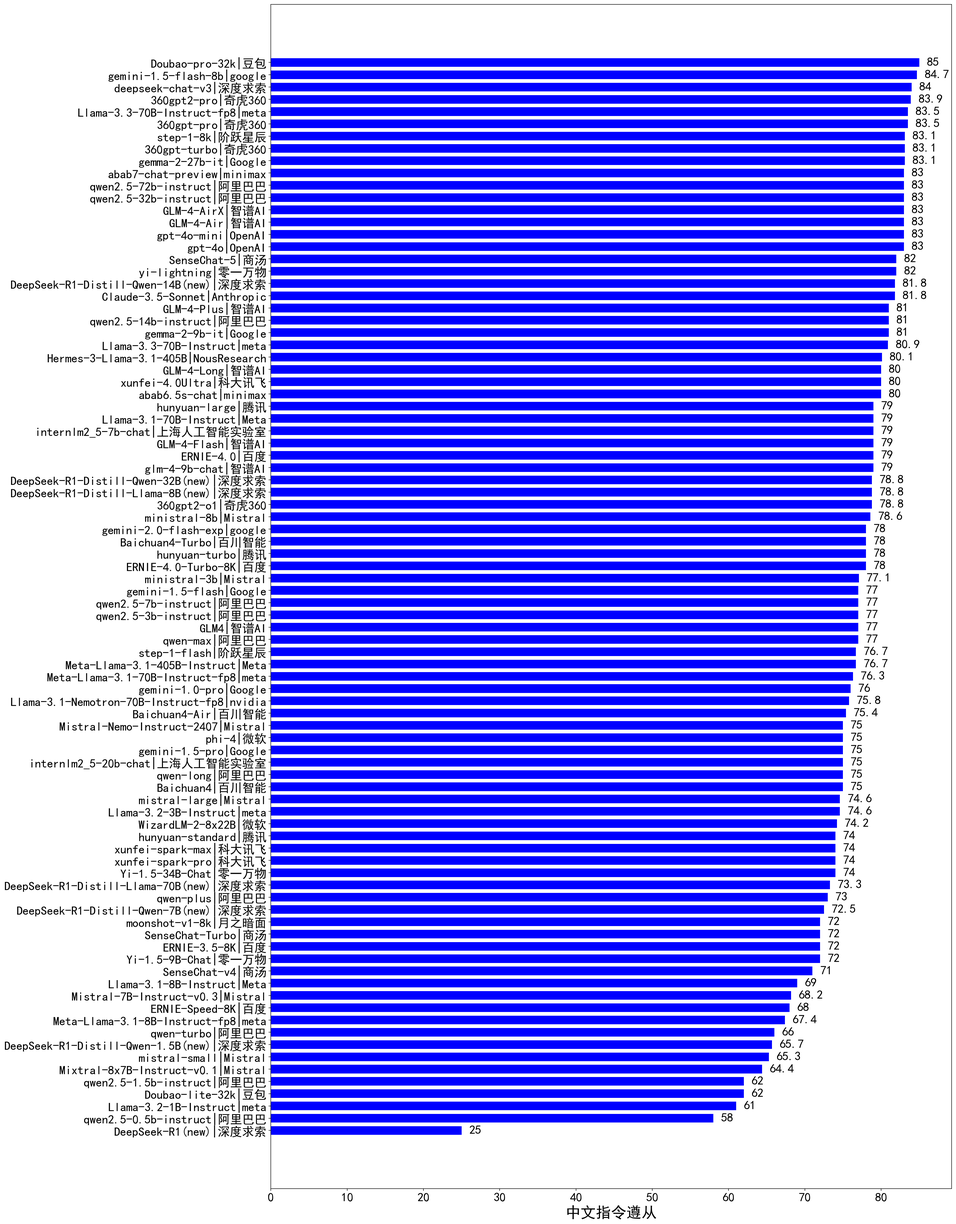
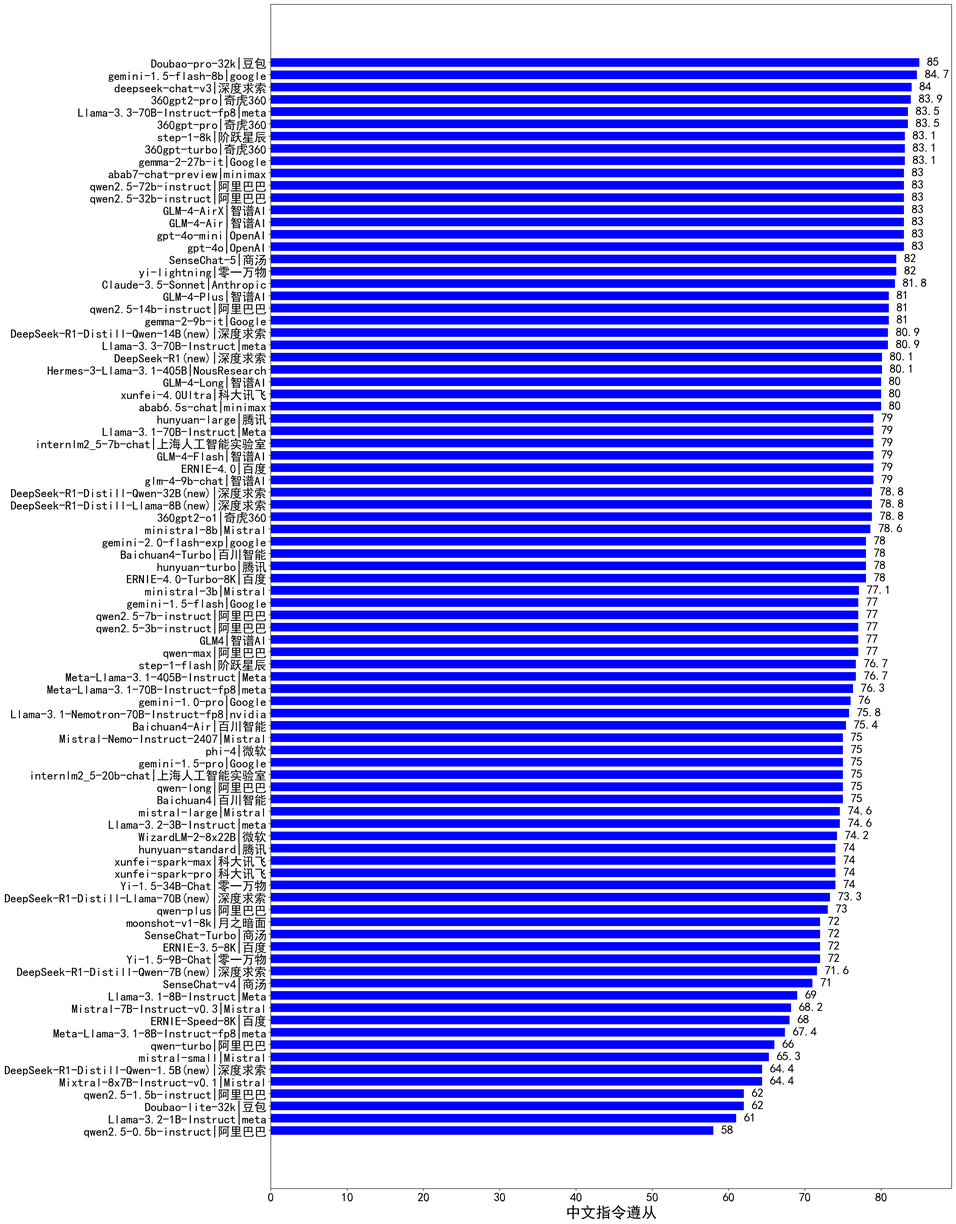
.

diff --git a/leaderboard/alldata.md b/leaderboard/alldata.md
@@ -1,8 +1,8 @@
 
 | 类别 | 大模型                        | 分类能力 | 信息抽取 | 阅读理解 | 数据分析 | 指令遵从 | 算术运算 |初中数学|BBH|总分   | 排名 |
 |----|----------------------------|------|--------|--------|------|------|----|------|----|---|----|
-|商用|hunyuan-large☛[去体验](https://easyllm.site/static/modelcompare.html?type=proprietary)|91.0|88.9|90.8|96.7|                        79.0|93.0|93.9|88.9|92.7|                        81.6|86.3|79.3|86.1|                        83.8|77.0|87.3|1|
-|开源|DeepSeek-R1(new)☛[去体验](https://easyllm.site/static/modelcompare.html?type=open-source)|94.7|97.0|92.6|100.0|                        25.0|89.8|94.2|93.3|94.6|                        91.5|90.6|71.5|93.5|                        83.9|83.1|86.4|2|
+|开源|DeepSeek-R1(new)☛[去体验](https://easyllm.site/static/modelcompare.html?type=open-source)|94.7|97.0|92.6|100.0|                        80.1|89.8|94.2|93.3|94.6|                        91.5|90.6|71.5|93.5|                        83.9|83.1|90.0|1|
+|商用|hunyuan-large☛[去体验](https://easyllm.site/static/modelcompare.html?type=proprietary)|91.0|88.9|90.8|96.7|                        79.0|93.0|93.9|88.9|92.7|                        81.6|86.3|79.3|86.1|                        83.8|77.0|87.3|2|
 |商用|hunyuan-turbo☛[去体验](https://easyllm.site/static/modelcompare.html?type=proprietary)|93.0|85.2|89.4|97.3|                        78.0|99.5|93.7|83.2|92.0|                        82.4|82.6|69.1|90.6|                        74.7|77.4|85.9|3|
 |商用|ERNIE-4.0☛[去体验](https://easyllm.site/static/modelcompare.html?type=proprietary)|88.0|89.0|93.8|94.0|                        79.0|100.0|88.6|82.8|92.0|                        84.0|76.0|61.0|83.7|                        81.8|78.0|84.8|4|
 |商用|ERNIE-4.0-Turbo-8K☛[去体验](https://easyllm.site/static/modelcompare.html?type=proprietary)|90.0|94.8|93.2|98.7|                        78.0|97.7|82.9|82.8|92.7|                        86.4|71.7|58.6|81.0|                        81.8|71.8|84.1|5|
@@ -23,8 +23,8 @@
 |商用|SenseChat-5☛[去体验](https://easyllm.site/static/modelcompare.html?type=proprietary)|93.0|90.4|87.2|97.3|                        82.0|85.0|82.9|86.2|90.0|                        86.0|70.0|45.0|74.8|                        70.7|80.0|81.4|20|
 |商用|360gpt2-o1☛[去体验](https://easyllm.site/static/modelcompare.html?type=proprietary)|98.0|94.1|77.4|100.0|                        78.8|90.4|91.5|85.5|89.2|                        83.8|70.5|48.0|79.9|                        71.7|58.7|81.2|21|
 |开源|qwen2.5-32b-instruct☛[去体验](https://easyllm.site/static/modelcompare.html?type=open-source)|91.0|94.1|85.8|91.3|                        83.0|94.0|90.3|66.6|94.1|                        88.2|70.0|51.9|81.2|                        72.7|62.3|81.1|22|
-|开源|DeepSeek-R1-Distill-Qwen-14B(new)☛[去体验](https://easyllm.site/static/modelcompare.html?type=open-source)|88.4|90.4|78.9|98.0|                        81.8|94.3|88.5|83.5|92.7|                        86.6|68.0|42.3|78.4|                        80.8|62.3|81.0|23|
-|商用|xunfei-spark-max☛[去体验](https://easyllm.site/static/modelcompare.html?type=proprietary)|87.0|92.0|82.6|87.3|                        74.0|93.5|93.7|72.5|91.6|                        87.0|70.4|59.6|84.7|                        76.8|61.5|80.9|24|
+|商用|xunfei-spark-max☛[去体验](https://easyllm.site/static/modelcompare.html?type=proprietary)|87.0|92.0|82.6|87.3|                        74.0|93.5|93.7|72.5|91.6|                        87.0|70.4|59.6|84.7|                        76.8|61.5|80.9|23|
+|开源|DeepSeek-R1-Distill-Qwen-14B(new)☛[去体验](https://easyllm.site/static/modelcompare.html?type=open-source)|88.4|90.4|78.9|98.0|                        80.9|94.3|88.5|83.5|92.7|                        86.6|68.0|42.3|78.4|                        80.8|62.3|80.9|24|
 |开源|DeepSeek-R1-Distill-Llama-70B(new)☛[去体验](https://easyllm.site/static/modelcompare.html?type=open-source)|88.4|94.8|78.9|97.3|                        73.3|92.6|87.6|86.4|95.1|                        86.0|77.8|35.2|74.1|                        78.6|67.5|80.9|25|
 |商用|yi-lightning☛[去体验](https://easyllm.site/static/modelcompare.html?type=proprietary)|94.0|90.4|79.8|100.0|                        82.0|96.0|83.5|82.4|90.6|                        84.7|69.0|41.1|77.2|                        80.8|61.1|80.8|26|
 |商用|step-1-8k☛[去体验](https://easyllm.site/static/modelcompare.html?type=proprietary)|96.0|93.3|81.1|100.0|                        83.1|94.2|84.5|88.1|90.9|                        83.0|69.1|45.4|70.3|                        70.7|61.5|80.7|27|
@@ -74,7 +74,7 @@
 |商用|ministral-8b☛[去体验](https://easyllm.site/static/modelcompare.html?type=proprietary)|88.0|90.4|60.2|99.3|                        78.6|85.5|69.0|71.4|87.5|                        59.4|45.3|21.1|44.0|                        68.3|53.8|68.1|71|
 |开源|qwen2.5-3b-instruct☛[去体验](https://easyllm.site/static/modelcompare.html?type=open-source)|81.0|75.6|70.6|83.3|                        77.0|85.7|75.5|43.5|84.3|                        80.3|51.3|28.9|56.5|                        68.7|57.9|68.0|72|
 |商用|SenseChat-v4☛[去体验](https://easyllm.site/static/modelcompare.html?type=proprietary)|89.0|78.5|75.1|86.7|                        71.0|72.2|39.0|70.7|84.7|                        76.8|53.3|25.2|55.5|                        70.7|66.7|67.7|73|
-|开源|DeepSeek-R1-Distill-Qwen-7B(new)☛[去体验](https://easyllm.site/static/modelcompare.html?type=open-source)|69.5|87.0|57.6|95.3|                        72.5|90.2|86.9|63.4|73.2|                        73.8|48.8|19.5|54.0|                        61.6|49.2|66.8|74|
+|开源|DeepSeek-R1-Distill-Qwen-7B(new)☛[去体验](https://easyllm.site/static/modelcompare.html?type=open-source)|69.5|87.0|57.6|95.3|                        71.6|90.2|86.9|63.4|73.2|                        73.8|48.8|19.5|54.0|                        61.6|49.2|66.8|74|
 |开源|Yi-1.5-9B-Chat☛[去体验](https://easyllm.site/static/modelcompare.html?type=open-source)|82.0|83.0|73.9|80.0|                        72.0|73.8|54.7|70.8|85.4|                        75.8|45.3|31.5|56.9|                        56.6|57.1|66.6|75|
 |开源|Mistral-Nemo-Instruct-2407☛[去体验](https://easyllm.site/static/modelcompare.html?type=open-source)|89.0|91.9|58.0|93.3|                        75.0|79.3|52.4|69.9|81.9|                        75.2|42.4|20.9|48.1|                        58.6|52.4|65.9|76|
 |商用|gemini-1.0-pro☛[去体验](https://easyllm.site/static/modelcompare.html?type=proprietary)|84.0|89.6|74.1|99.3|                        76.0|50.8|40.6|75.0|67.6|                        76.3|49.2|24.2|54.0|                        65.7|60.3|65.8|77|
@@ -86,7 +86,7 @@
 |开源|Llama-3.2-3B-Instruct☛[去体验](https://easyllm.site/static/modelcompare.html?type=open-source)|74.0|83.0|58.1|88.7|                        74.6|89.7|46.2|58.1|63.4|                        69.6|37.8|18.4|35.3|                        62.6|42.9|60.2|83|
 |开源|qwen2.5-1.5b-instruct☛[去体验](https://easyllm.site/static/modelcompare.html?type=open-source)|70.0|71.9|65.6|63.3|                        62.0|83.3|56.1|34.0|36.2|                        75.1|40.5|28.1|52.5|                        57.6|42.5|55.9|84|
 |开源|Mistral-7B-Instruct-v0.3☛[去体验](https://easyllm.site/static/modelcompare.html?type=open-source)|82.0|80.7|57.6|83.3|                        68.2|33.5|31.7|56.4|76.3|                        73.0|40.9|17.1|34.0|                        54.5|44.8|55.6|85|
-|开源|DeepSeek-R1-Distill-Qwen-1.5B(new)☛[去体验](https://easyllm.site/static/modelcompare.html?type=open-source)|73.7|80.9|45.7|89.3|                        65.7|84.3|74.6|48.6|48.8|                        64.4|26.4|12.9|34.6|                        44.4|36.9|55.4|86|
+|开源|DeepSeek-R1-Distill-Qwen-1.5B(new)☛[去体验](https://easyllm.site/static/modelcompare.html?type=open-source)|73.7|80.9|45.7|89.3|                        64.4|84.3|74.6|48.6|48.8|                        64.4|26.4|12.9|34.6|                        44.4|36.9|55.3|86|
 |开源|Llama-3.2-1B-Instruct☛[去体验](https://easyllm.site/static/modelcompare.html?type=open-source)|56.0|71.9|52.3|54.0|                        61.0|67.3|23.3|22.2|56.1|                        53.0|32.7|14.4|33.7|                        52.5|38.1|45.9|87|
 |开源|qwen2.5-0.5b-instruct☛[去体验](https://easyllm.site/static/modelcompare.html?type=open-source)|52.0|53.3|50.4|46.0|                        58.0|51.8|36.6|15.7|48.1|                        50.4|30.7|21.7|37.4|                        42.4|32.5|41.8|88|
 

diff --git a/leaderboard/commerce4.md b/leaderboard/commerce4.md
@@ -3,7 +3,7 @@
 |大模型|输出价格|分类能力|信息抽取|阅读理解|数据分析|指令遵从|算术运算|初中数学|符号推理|代词理解|诗词匹配|公务员考试|律师资格考试|高考|常识推理|文本蕴含|总分|排名|
 |-----|-------|------|------|-------|------|-------|-------|-------|------|------|-------|--------|----------|---|-------|-------|---|---|
 |gemini-2.0-flash-exp☛[去体验](https://easyllm.site/static/modelcompare.html?type=proprietary)|0元|97.0|96.3|76.7|                    100.0|78.0|96.8|95.5|90.1|                    91.0|86.0|69.3|37.7|                    71.5|74.7|63.9|81.6|1|
-|DeepSeek-R1-Distill-Qwen-14B(new)☛[去体验](https://easyllm.site/static/modelcompare.html?type=open-source)|0.7元|88.4|90.4|78.9|                    98.0|81.8|94.3|88.5|83.5|                    92.7|86.6|68.0|42.3|                    78.4|80.8|62.3|81.0|2|
+|DeepSeek-R1-Distill-Qwen-14B(new)☛[去体验](https://easyllm.site/static/modelcompare.html?type=open-source)|0.7元|88.4|90.4|78.9|                    98.0|80.9|94.3|88.5|83.5|                    92.7|86.6|68.0|42.3|                    78.4|80.8|62.3|80.9|2|
 |yi-lightning☛[去体验](https://easyllm.site/static/modelcompare.html?type=proprietary)|0.99元|94.0|90.4|79.8|                    100.0|82.0|96.0|83.5|82.4|                    90.6|84.7|69.0|41.1|                    77.2|80.8|61.1|80.8|3|
 |internlm2_5-20b-chat☛[去体验](https://easyllm.site/static/modelcompare.html?type=open-source)|1元|86.0|90.4|79.7|                    97.3|75.0|89.7|86.8|78.7|                    88.2|82.2|66.4|42.7|                    74.1|63.6|64.3|77.7|4|
 |phi-4☛[去体验](https://easyllm.site/static/modelcompare.html?type=open-source)|1元|96.0|93.3|70.7|                    97.3|75.0|97.2|86.1|86.1|                    91.6|80.6|66.1|23.6|                    58.8|73.7|64.7|77.4|5|
@@ -18,7 +18,7 @@
 |ERNIE-Speed-8K☛[去体验](https://easyllm.site/static/modelcompare.html?type=proprietary)|0元|88.0|88.1|77.2|                    89.3|68.0|68.7|65.7|54.1|                    86.4|80.5|54.5|30.8|                    62.2|67.7|51.2|68.8|14|
 |DeepSeek-R1-Distill-Llama-8B(new)☛[去体验](https://easyllm.site/static/modelcompare.html?type=open-source)|0.42元|88.4|87.0|55.3|                    98.7|78.8|86.7|72.0|74.2|                    76.7|77.8|50.3|19.8|                    50.1|51.3|55.6|68.2|15|
 |ministral-8b☛[去体验](https://easyllm.site/static/modelcompare.html?type=proprietary)|0.72元|88.0|90.4|60.2|                    99.3|78.6|85.5|69.0|71.4|                    87.5|59.4|45.3|21.1|                    44.0|68.3|53.8|68.1|16|
-|DeepSeek-R1-Distill-Qwen-7B(new)☛[去体验](https://easyllm.site/static/modelcompare.html?type=open-source)|0.35元|69.5|87.0|57.6|                    95.3|72.5|90.2|86.9|63.4|                    73.2|73.8|48.8|19.5|                    54.0|61.6|49.2|66.8|17|
+|DeepSeek-R1-Distill-Qwen-7B(new)☛[去体验](https://easyllm.site/static/modelcompare.html?type=open-source)|0.35元|69.5|87.0|57.6|                    95.3|71.6|90.2|86.9|63.4|                    73.2|73.8|48.8|19.5|                    54.0|61.6|49.2|66.8|17|
 |Yi-1.5-9B-Chat☛[去体验](https://easyllm.site/static/modelcompare.html?type=open-source)|0.4元|82.0|83.0|73.9|                    80.0|72.0|73.8|54.7|70.8|                    85.4|75.8|45.3|31.5|                    56.9|56.6|57.1|66.6|18|
 |Mistral-Nemo-Instruct-2407☛[去体验](https://easyllm.site/static/modelcompare.html?type=open-source)|0.58元|89.0|91.9|58.0|                    93.3|75.0|79.3|52.4|69.9|                    81.9|75.2|42.4|20.9|                    48.1|58.6|52.4|65.9|19|
 |Doubao-lite-32k☛[去体验](https://easyllm.site/static/modelcompare.html?type=proprietary)|0.6元|77.0|86.7|71.9|                    64.7|62.0|87.2|71.8|52.3|                    79.4|64.6|49.8|32.1|                    68.4|63.6|50.4|65.5|20|
@@ -27,6 +27,6 @@
 |ministral-3b☛[去体验](https://easyllm.site/static/modelcompare.html?type=proprietary)|0.29元|83.0|87.4|54.5|                    84.0|77.1|66.3|64.4|64.5|                    67.5|64.1|38.1|15.8|                    39.0|67.9|33.8|60.5|23|
 |Llama-3.2-3B-Instruct☛[去体验](https://easyllm.site/static/modelcompare.html?type=open-source)|0.18元|74.0|83.0|58.1|                    88.7|74.6|89.7|46.2|58.1|                    63.4|69.6|37.8|18.4|                    35.3|62.6|42.9|60.2|24|
 |Mistral-7B-Instruct-v0.3☛[去体验](https://easyllm.site/static/modelcompare.html?type=open-source)|0.4元|82.0|80.7|57.6|                    83.3|68.2|33.5|31.7|56.4|                    76.3|73.0|40.9|17.1|                    34.0|54.5|44.8|55.6|25|
-|DeepSeek-R1-Distill-Qwen-1.5B(new)☛[去体验](https://easyllm.site/static/modelcompare.html?type=open-source)|0.14元|73.7|80.9|45.7|                    89.3|65.7|84.3|74.6|48.6|                    48.8|64.4|26.4|12.9|                    34.6|44.4|36.9|55.4|26|
+|DeepSeek-R1-Distill-Qwen-1.5B(new)☛[去体验](https://easyllm.site/static/modelcompare.html?type=open-source)|0.14元|73.7|80.9|45.7|                    89.3|64.4|84.3|74.6|48.6|                    48.8|64.4|26.4|12.9|                    34.6|44.4|36.9|55.3|26|
 |Llama-3.2-1B-Instruct☛[去体验](https://easyllm.site/static/modelcompare.html?type=open-source)|0.15元|56.0|71.9|52.3|                    54.0|61.0|67.3|23.3|22.2|                    56.1|53.0|32.7|14.4|                    33.7|52.5|38.1|45.9|27|
 

diff --git a/leaderboard/IFEval.md b/leaderboard/IFEval.md
@@ -19,76 +19,76 @@
 |商用|abab7-chat-preview|83.0|16|
 |商用|SenseChat-5|82.0|17|
 |商用|yi-lightning|82.0|18|
-|开源|DeepSeek-R1-Distill-Qwen-14B(new)|81.8|19|
-|商用|Claude-3.5-Sonnet|81.8|20|
-|开源|qwen2.5-14b-instruct|81.0|21|
+|商用|Claude-3.5-Sonnet|81.8|19|
+|开源|qwen2.5-14b-instruct|81.0|20|
+|开源|gemma-2-9b-it|81.0|21|
 |商用|GLM-4-Plus|81.0|22|
-|开源|gemma-2-9b-it|81.0|23|
-|开源|Llama-3.3-70B-Instruct|80.9|24|
+|开源|Llama-3.3-70B-Instruct|80.9|23|
+|开源|DeepSeek-R1-Distill-Qwen-14B(new)|80.9|24|
 |开源|Hermes-3-Llama-3.1-405B|80.1|25|
-|商用|xunfei-4.0Ultra|80.0|26|
+|开源|DeepSeek-R1(new)|80.1|26|
 |商用|abab6.5s-chat|80.0|27|
-|商用|GLM-4-Long|80.0|28|
-|商用|GLM-4-Flash|79.0|29|
-|开源|glm-4-9b-chat|79.0|30|
+|商用|xunfei-4.0Ultra|80.0|28|
+|商用|GLM-4-Long|80.0|29|
+|商用|GLM-4-Flash|79.0|30|
 |商用|ERNIE-4.0|79.0|31|
 |开源|internlm2_5-7b-chat|79.0|32|
-|商用|hunyuan-large|79.0|33|
-|开源|Llama-3.1-70B-Instruct|79.0|34|
-|开源|DeepSeek-R1-Distill-Llama-8B(new)|78.8|35|
-|商用|360gpt2-o1|78.8|36|
+|开源|Llama-3.1-70B-Instruct|79.0|33|
+|开源|glm-4-9b-chat|79.0|34|
+|商用|hunyuan-large|79.0|35|
+|开源|DeepSeek-R1-Distill-Llama-8B(new)|78.8|36|
 |开源|DeepSeek-R1-Distill-Qwen-32B(new)|78.8|37|
-|商用|ministral-8b|78.6|38|
-|商用|ERNIE-4.0-Turbo-8K|78.0|39|
-|商用|gemini-2.0-flash-exp|78.0|40|
+|商用|360gpt2-o1|78.8|38|
+|商用|ministral-8b|78.6|39|
+|商用|ERNIE-4.0-Turbo-8K|78.0|40|
 |商用|hunyuan-turbo|78.0|41|
-|商用|Baichuan4-Turbo|78.0|42|
-|商用|ministral-3b|77.1|43|
-|商用|GLM4|77.0|44|
+|商用|gemini-2.0-flash-exp|78.0|42|
+|商用|Baichuan4-Turbo|78.0|43|
+|商用|ministral-3b|77.1|44|
 |商用|gemini-1.5-flash|77.0|45|
 |开源|qwen2.5-7b-instruct|77.0|46|
-|商用|qwen-max|77.0|47|
-|开源|qwen2.5-3b-instruct|77.0|48|
-|开源|Meta-Llama-3.1-405B-Instruct|76.7|49|
+|开源|qwen2.5-3b-instruct|77.0|47|
+|商用|GLM4|77.0|48|
+|商用|qwen-max|77.0|49|
 |商用|step-1-flash|76.7|50|
-|开源|Meta-Llama-3.1-70B-Instruct-fp8|76.3|51|
-|商用|gemini-1.0-pro|76.0|52|
-|开源|Llama-3.1-Nemotron-70B-Instruct-fp8|75.8|53|
-|商用|Baichuan4-Air|75.4|54|
-|商用|gemini-1.5-pro|75.0|55|
+|开源|Meta-Llama-3.1-405B-Instruct|76.7|51|
+|开源|Meta-Llama-3.1-70B-Instruct-fp8|76.3|52|
+|商用|gemini-1.0-pro|76.0|53|
+|开源|Llama-3.1-Nemotron-70B-Instruct-fp8|75.8|54|
+|商用|Baichuan4-Air|75.4|55|
 |开源|internlm2_5-20b-chat|75.0|56|
 |商用|qwen-long|75.0|57|
 |商用|Baichuan4|75.0|58|
-|开源|phi-4|75.0|59|
+|商用|gemini-1.5-pro|75.0|59|
 |开源|Mistral-Nemo-Instruct-2407|75.0|60|
-|商用|mistral-large|74.6|61|
-|开源|Llama-3.2-3B-Instruct|74.6|62|
-|开源|WizardLM-2-8x22B|74.2|63|
-|开源|Yi-1.5-34B-Chat|74.0|64|
-|商用|xunfei-spark-pro|74.0|65|
+|开源|phi-4|75.0|61|
+|商用|mistral-large|74.6|62|
+|开源|Llama-3.2-3B-Instruct|74.6|63|
+|开源|WizardLM-2-8x22B|74.2|64|
+|商用|hunyuan-standard|74.0|65|
 |商用|xunfei-spark-max|74.0|66|
-|商用|hunyuan-standard|74.0|67|
-|开源|DeepSeek-R1-Distill-Llama-70B(new)|73.3|68|
-|商用|qwen-plus|73.0|69|
-|开源|DeepSeek-R1-Distill-Qwen-7B(new)|72.5|70|
+|商用|xunfei-spark-pro|74.0|67|
+|开源|Yi-1.5-34B-Chat|74.0|68|
+|开源|DeepSeek-R1-Distill-Llama-70B(new)|73.3|69|
+|商用|qwen-plus|73.0|70|
 |商用|ERNIE-3.5-8K|72.0|71|
 |商用|moonshot-v1-8k|72.0|72|
 |商用|SenseChat-Turbo|72.0|73|
 |开源|Yi-1.5-9B-Chat|72.0|74|
-|商用|SenseChat-v4|71.0|75|
-|开源|Llama-3.1-8B-Instruct|69.0|76|
-|开源|Mistral-7B-Instruct-v0.3|68.2|77|
-|商用|ERNIE-Speed-8K|68.0|78|
-|开源|Meta-Llama-3.1-8B-Instruct-fp8|67.4|79|
-|商用|qwen-turbo|66.0|80|
-|开源|DeepSeek-R1-Distill-Qwen-1.5B(new)|65.7|81|
+|开源|DeepSeek-R1-Distill-Qwen-7B(new)|71.6|75|
+|商用|SenseChat-v4|71.0|76|
+|开源|Llama-3.1-8B-Instruct|69.0|77|
+|开源|Mistral-7B-Instruct-v0.3|68.2|78|
+|商用|ERNIE-Speed-8K|68.0|79|
+|开源|Meta-Llama-3.1-8B-Instruct-fp8|67.4|80|
+|商用|qwen-turbo|66.0|81|
 |商用|mistral-small|65.3|82|
-|开源|Mixtral-8x7B-Instruct-v0.1|64.4|83|
-|商用|Doubao-lite-32k|62.0|84|
-|开源|qwen2.5-1.5b-instruct|62.0|85|
-|开源|Llama-3.2-1B-Instruct|61.0|86|
-|开源|qwen2.5-0.5b-instruct|58.0|87|
-|开源|DeepSeek-R1(new)|25.0|88|
+|开源|DeepSeek-R1-Distill-Qwen-1.5B(new)|64.4|83|
+|开源|Mixtral-8x7B-Instruct-v0.1|64.4|84|
+|商用|Doubao-lite-32k|62.0|85|
+|开源|qwen2.5-1.5b-instruct|62.0|86|
+|开源|Llama-3.2-1B-Instruct|61.0|87|
+|开源|qwen2.5-0.5b-instruct|58.0|88|
 |商用|o1-mini|/|89|
 |开源|qwen2.5-math-72b-instruct|/|90|
 |商用|o1-preview|/|91|

diff --git a/leaderboard/opensource2.md b/leaderboard/opensource2.md
@@ -2,7 +2,7 @@
 ##### （2）5B~20B开源大模型排行榜
 |类别|大模型|分类能力|信息抽取|阅读理解|数据分析|指令遵从|算术运算|初中数学|符号推理|代词理解|诗词匹配|公务员考试|律师资格考试|高考|常识推理|文本蕴含|总分|排名|
 |---|-----|------|-------|-------|------|-------|-------|------|-------|------|-------|--------|----------|---|------|-------|----|---|
-|开源|DeepSeek-R1-Distill-Qwen-14B(new)☛[去体验](https://easyllm.site/static/modelcompare.html?type=open-source)|88.4|90.4|78.9|98.0|                        81.8|94.3|88.5|83.5|92.7|                        86.6|68.0|42.3|78.4|                        80.8|62.3|81.0|1|
+|开源|DeepSeek-R1-Distill-Qwen-14B(new)☛[去体验](https://easyllm.site/static/modelcompare.html?type=open-source)|88.4|90.4|78.9|98.0|                        80.9|94.3|88.5|83.5|92.7|                        86.6|68.0|42.3|78.4|                        80.8|62.3|80.9|1|
 |开源|qwen2.5-14b-instruct☛[去体验](https://easyllm.site/static/modelcompare.html?type=open-source)|89.0|90.4|85.0|98.0|                        81.0|91.5|93.7|54.4|92.7|                        87.5|67.0|42.6|79.3|                        76.8|64.7|79.6|2|
 |开源|internlm2_5-20b-chat☛[去体验](https://easyllm.site/static/modelcompare.html?type=open-source)|86.0|90.4|79.7|97.3|                        75.0|89.7|86.8|78.7|88.2|                        82.2|66.4|42.7|74.1|                        63.6|64.3|77.7|3|
 |开源|phi-4☛[去体验](https://easyllm.site/static/modelcompare.html?type=open-source)|96.0|93.3|70.7|97.3|                        75.0|97.2|86.1|86.1|91.6|                        80.6|66.1|23.6|58.8|                        73.7|64.7|77.4|4|
@@ -13,7 +13,7 @@
 |开源|gemma-2-9b-it☛[去体验](https://easyllm.site/static/modelcompare.html?type=open-source)|85.0|82.2|74.8|87.3|                        81.0|89.3|67.4|59.9|81.9|                        78.5|53.6|19.1|53.8|                        68.7|59.1|69.4|9|
 |开源|DeepSeek-R1-Distill-Llama-8B(new)☛[去体验](https://easyllm.site/static/modelcompare.html?type=open-source)|88.4|87.0|55.3|98.7|                        78.8|86.7|72.0|74.2|76.7|                        77.8|50.3|19.8|50.1|                        51.3|55.6|68.2|10|
 |商用|ministral-8b☛[去体验](https://easyllm.site/static/modelcompare.html?type=proprietary)|88.0|90.4|60.2|99.3|                        78.6|85.5|69.0|71.4|87.5|                        59.4|45.3|21.1|44.0|                        68.3|53.8|68.1|11|
-|开源|DeepSeek-R1-Distill-Qwen-7B(new)☛[去体验](https://easyllm.site/static/modelcompare.html?type=open-source)|69.5|87.0|57.6|95.3|                        72.5|90.2|86.9|63.4|73.2|                        73.8|48.8|19.5|54.0|                        61.6|49.2|66.8|12|
+|开源|DeepSeek-R1-Distill-Qwen-7B(new)☛[去体验](https://easyllm.site/static/modelcompare.html?type=open-source)|69.5|87.0|57.6|95.3|                        71.6|90.2|86.9|63.4|73.2|                        73.8|48.8|19.5|54.0|                        61.6|49.2|66.8|12|
 |开源|Yi-1.5-9B-Chat☛[去体验](https://easyllm.site/static/modelcompare.html?type=open-source)|82.0|83.0|73.9|80.0|                        72.0|73.8|54.7|70.8|85.4|                        75.8|45.3|31.5|56.9|                        56.6|57.1|66.6|13|
 |开源|Mistral-Nemo-Instruct-2407☛[去体验](https://easyllm.site/static/modelcompare.html?type=open-source)|89.0|91.9|58.0|93.3|                        75.0|79.3|52.4|69.9|81.9|                        75.2|42.4|20.9|48.1|                        58.6|52.4|65.9|14|
 |开源|Llama-3.1-8B-Instruct☛[去体验](https://easyllm.site/static/modelcompare.html?type=open-source)|63.0|85.2|65.3|84.0|                        69.0|90.5|50.4|65.7|71.8|                        77.9|49.6|22.2|44.6|                        66.7|53.2|63.9|15|

diff --git a/leaderboard/commerce2.md b/leaderboard/commerce2.md
@@ -2,8 +2,8 @@
 ##### （2）输出价格5~30元商用大模型排行榜
 |大模型|输出价格|分类能力|信息抽取|阅读理解|数据分析|指令遵从|算术运算|初中数学|符号推理|代词理解|诗词匹配|公务员考试|律师资格考试|高考|常识推理|文本蕴含|总分|排名|
 |-----|------|-------|-------|------|------|-------|-------|------|-------|-------|------|--------|----------|----|------|------|----|---|
-|hunyuan-large☛[去体验](https://easyllm.site/static/modelcompare.html?type=proprietary)|12元|91.0|88.9|90.8|                    96.7|79.0|93.0|93.9|88.9|                    92.7|81.6|86.3|79.3|                    86.1|83.8|77.0|87.3|1|
-|DeepSeek-R1(new)☛[去体验](https://easyllm.site/static/modelcompare.html?type=open-source)|16元|94.7|97.0|92.6|                    100.0|25.0|89.8|94.2|93.3|                    94.6|91.5|90.6|71.5|                    93.5|83.9|83.1|86.4|2|
+|DeepSeek-R1(new)☛[去体验](https://easyllm.site/static/modelcompare.html?type=open-source)|16元|94.7|97.0|92.6|                    100.0|80.1|89.8|94.2|93.3|                    94.6|91.5|90.6|71.5|                    93.5|83.9|83.1|90.0|1|
+|hunyuan-large☛[去体验](https://easyllm.site/static/modelcompare.html?type=proprietary)|12元|91.0|88.9|90.8|                    96.7|79.0|93.0|93.9|88.9|                    92.7|81.6|86.3|79.3|                    86.1|83.8|77.0|87.3|2|
 |360gpt2-pro☛[去体验](https://easyllm.site/static/modelcompare.html?type=proprietary)|5元|99.0|91.9|87.9|                    100.0|83.9|96.0|92.2|89.2|                    89.8|87.0|72.7|49.6|                    77.9|76.8|61.1|83.7|3|
 |360gpt-pro☛[去体验](https://easyllm.site/static/modelcompare.html?type=proprietary)|5元|97.0|90.4|87.9|                    100.0|83.5|96.0|92.2|88.4|                    89.2|87.0|73.3|49.8|                    77.9|76.8|61.5|83.4|4|
 |qwen2.5-72b-instruct☛[去体验](https://easyllm.site/static/modelcompare.html?type=open-source)|12元|92.0|87.4|91.7|                    92.7|83.0|95.5|91.1|85.8|                    91.3|86.6|71.7|49.1|                    82.5|75.8|62.7|82.6|5|

diff --git a/leaderboard/opensource1.md b/leaderboard/opensource1.md
@@ -6,7 +6,7 @@
 |商用|ministral-3b☛[去体验](https://easyllm.site/static/modelcompare.html?type=proprietary)|83.0|87.4|54.5|84.0|                        77.1|66.3|64.4|64.5|67.5|                        64.1|38.1|15.8|39.0|                        67.9|33.8|60.5|2|
 |开源|Llama-3.2-3B-Instruct☛[去体验](https://easyllm.site/static/modelcompare.html?type=open-source)|74.0|83.0|58.1|88.7|                        74.6|89.7|46.2|58.1|63.4|                        69.6|37.8|18.4|35.3|                        62.6|42.9|60.2|3|
 |开源|qwen2.5-1.5b-instruct☛[去体验](https://easyllm.site/static/modelcompare.html?type=open-source)|70.0|71.9|65.6|63.3|                        62.0|83.3|56.1|34.0|36.2|                        75.1|40.5|28.1|52.5|                        57.6|42.5|55.9|4|
-|开源|DeepSeek-R1-Distill-Qwen-1.5B(new)☛[去体验](https://easyllm.site/static/modelcompare.html?type=open-source)|73.7|80.9|45.7|89.3|                        65.7|84.3|74.6|48.6|48.8|                        64.4|26.4|12.9|34.6|                        44.4|36.9|55.4|5|
+|开源|DeepSeek-R1-Distill-Qwen-1.5B(new)☛[去体验](https://easyllm.site/static/modelcompare.html?type=open-source)|73.7|80.9|45.7|89.3|                        64.4|84.3|74.6|48.6|48.8|                        64.4|26.4|12.9|34.6|                        44.4|36.9|55.3|5|
 |开源|Llama-3.2-1B-Instruct☛[去体验](https://easyllm.site/static/modelcompare.html?type=open-source)|56.0|71.9|52.3|54.0|                        61.0|67.3|23.3|22.2|56.1|                        53.0|32.7|14.4|33.7|                        52.5|38.1|45.9|6|
 |开源|qwen2.5-0.5b-instruct☛[去体验](https://easyllm.site/static/modelcompare.html?type=open-source)|52.0|53.3|50.4|46.0|                        58.0|51.8|36.6|15.7|48.1|                        50.4|30.7|21.7|37.4|                        42.4|32.5|41.8|7|
 

diff --git a/leaderboard/opensource3.md b/leaderboard/opensource3.md
@@ -2,7 +2,7 @@
 ##### （3）20B以上开源大模型排行榜
 |类别|大模型|分类能力|信息抽取|阅读理解|数据分析|指令遵从|算术运算|初中数学|符号推理|代词理解|诗词匹配|公务员考试|律师资格考试|高考|常识推理|文本蕴含|总分|排名|
 |---|-----|------|-------|-------|------|-------|-------|------|-------|------|-------|--------|----------|---|-------|------|----|---|
-|开源|DeepSeek-R1(new)☛[去体验](https://easyllm.site/static/modelcompare.html?type=open-source)|94.7|97.0|92.6|100.0|                        25.0|89.8|94.2|93.3|94.6|                        91.5|90.6|71.5|93.5|                        83.9|83.1|86.4|1|
+|开源|DeepSeek-R1(new)☛[去体验](https://easyllm.site/static/modelcompare.html?type=open-source)|94.7|97.0|92.6|100.0|                        80.1|89.8|94.2|93.3|94.6|                        91.5|90.6|71.5|93.5|                        83.9|83.1|90.0|1|
 |开源|DeepSeek-R1-Distill-Qwen-32B(new)☛[去体验](https://easyllm.site/static/modelcompare.html?type=open-source)|86.3|95.7|86.2|96.0|                        78.8|94.7|90.2|88.2|94.4|                        88.5|77.6|49.2|84.0|                        75.8|70.2|83.7|2|
 |开源|qwen2.5-72b-instruct☛[去体验](https://easyllm.site/static/modelcompare.html?type=open-source)|92.0|87.4|91.7|92.7|                        83.0|95.5|91.1|85.8|91.3|                        86.6|71.7|49.1|82.5|                        75.8|62.7|82.6|3|
 |开源|deepseek-chat-v3☛[去体验](https://easyllm.site/static/modelcompare.html?type=open-source)|93.0|97.0|73.4|100.0|                        84.0|99.0|91.4|90.5|94.4|                        86.8|72.7|39.5|75.3|                        74.7|55.6|81.8|4|

diff --git a/leaderboard/total.md b/leaderboard/total.md
@@ -1,8 +1,8 @@
 
 | 类别 | 大模型                         | 总分  | 排名 |
 |-----|------------------------------|------|----|
-|商用|hunyuan-large|87.3|1|
-|开源|DeepSeek-R1(new)|86.4|2|
+|开源|DeepSeek-R1(new)|90.0|1|
+|商用|hunyuan-large|87.3|2|
 |商用|hunyuan-turbo|85.9|3|
 |商用|ERNIE-4.0|84.8|4|
 |商用|ERNIE-4.0-Turbo-8K|84.1|5|
@@ -23,8 +23,8 @@
 |商用|SenseChat-5|81.4|20|
 |商用|360gpt2-o1|81.2|21|
 |开源|qwen2.5-32b-instruct|81.1|22|
-|开源|DeepSeek-R1-Distill-Qwen-14B(new)|81.0|23|
-|商用|xunfei-spark-max|80.9|24|
+|商用|xunfei-spark-max|80.9|23|
+|开源|DeepSeek-R1-Distill-Qwen-14B(new)|80.9|24|
 |开源|DeepSeek-R1-Distill-Llama-70B(new)|80.9|25|
 |商用|yi-lightning|80.8|26|
 |商用|step-1-8k|80.7|27|
@@ -86,7 +86,7 @@
 |开源|Llama-3.2-3B-Instruct|60.2|83|
 |开源|qwen2.5-1.5b-instruct|55.9|84|
 |开源|Mistral-7B-Instruct-v0.3|55.6|85|
-|开源|DeepSeek-R1-Distill-Qwen-1.5B(new)|55.4|86|
+|开源|DeepSeek-R1-Distill-Qwen-1.5B(new)|55.3|86|
 |开源|Llama-3.2-1B-Instruct|45.9|87|
 |开源|qwen2.5-0.5b-instruct|41.8|88|
 |商用|o1-mini|/|89|
